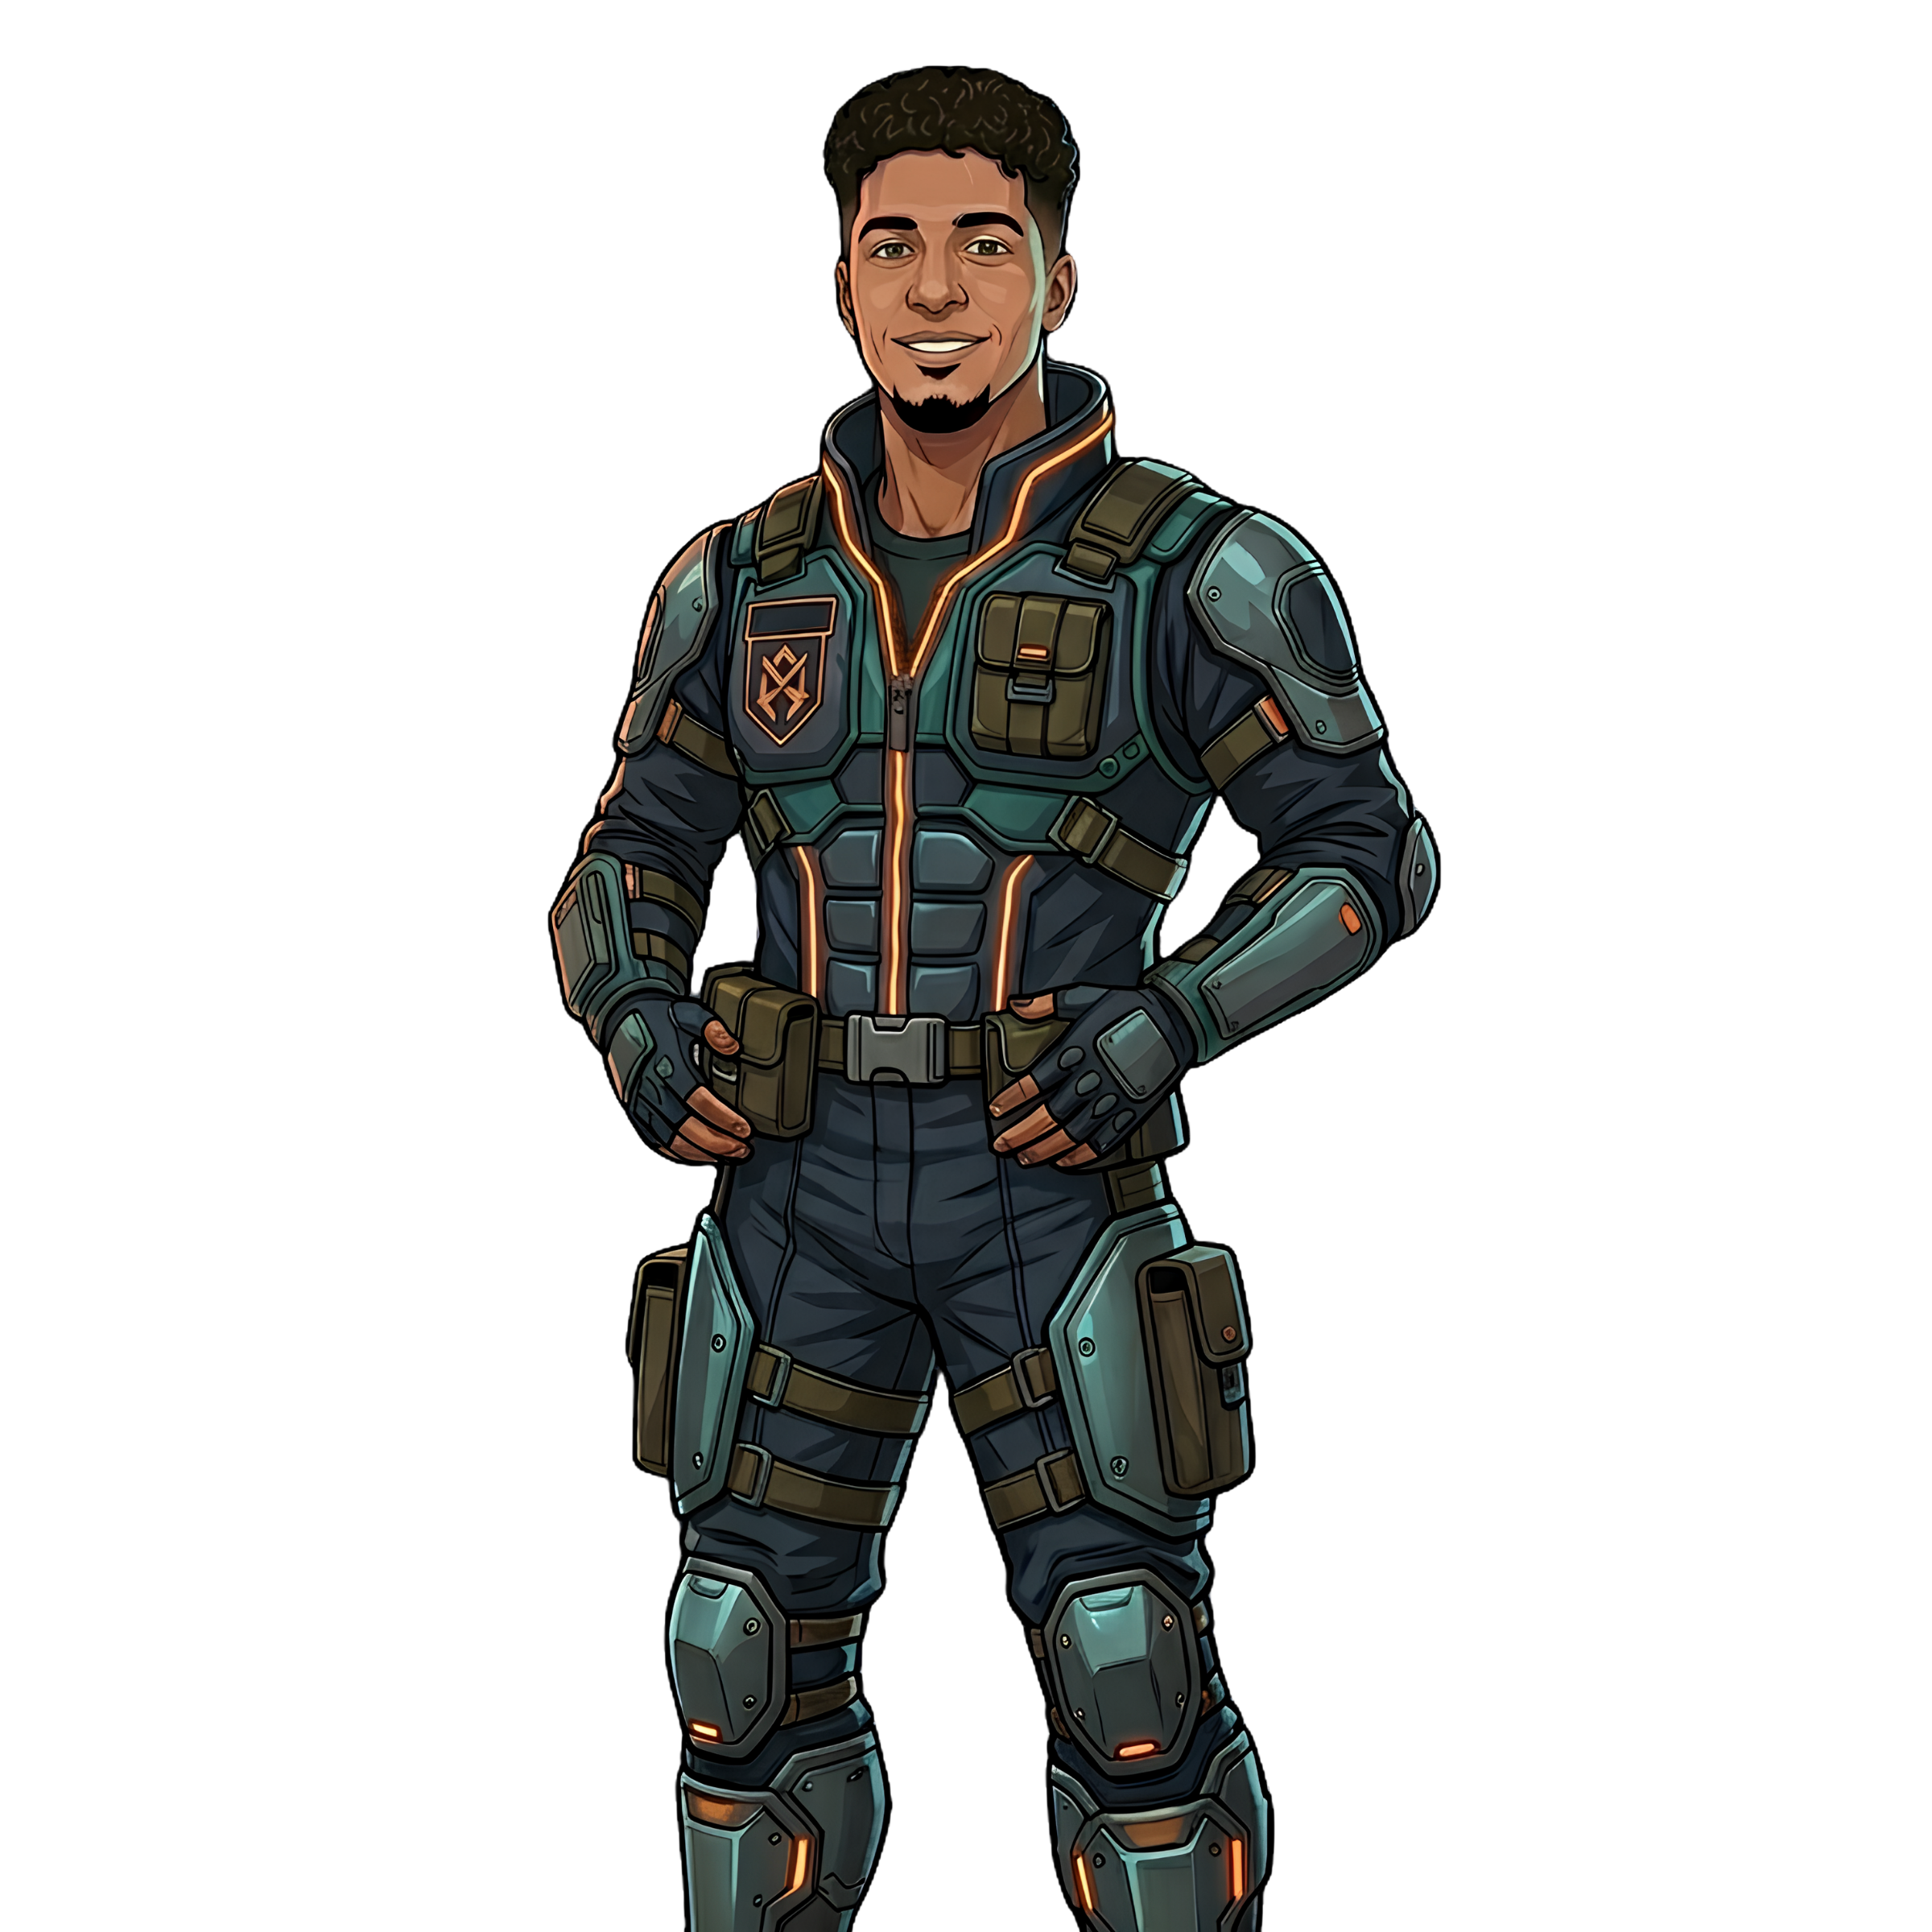
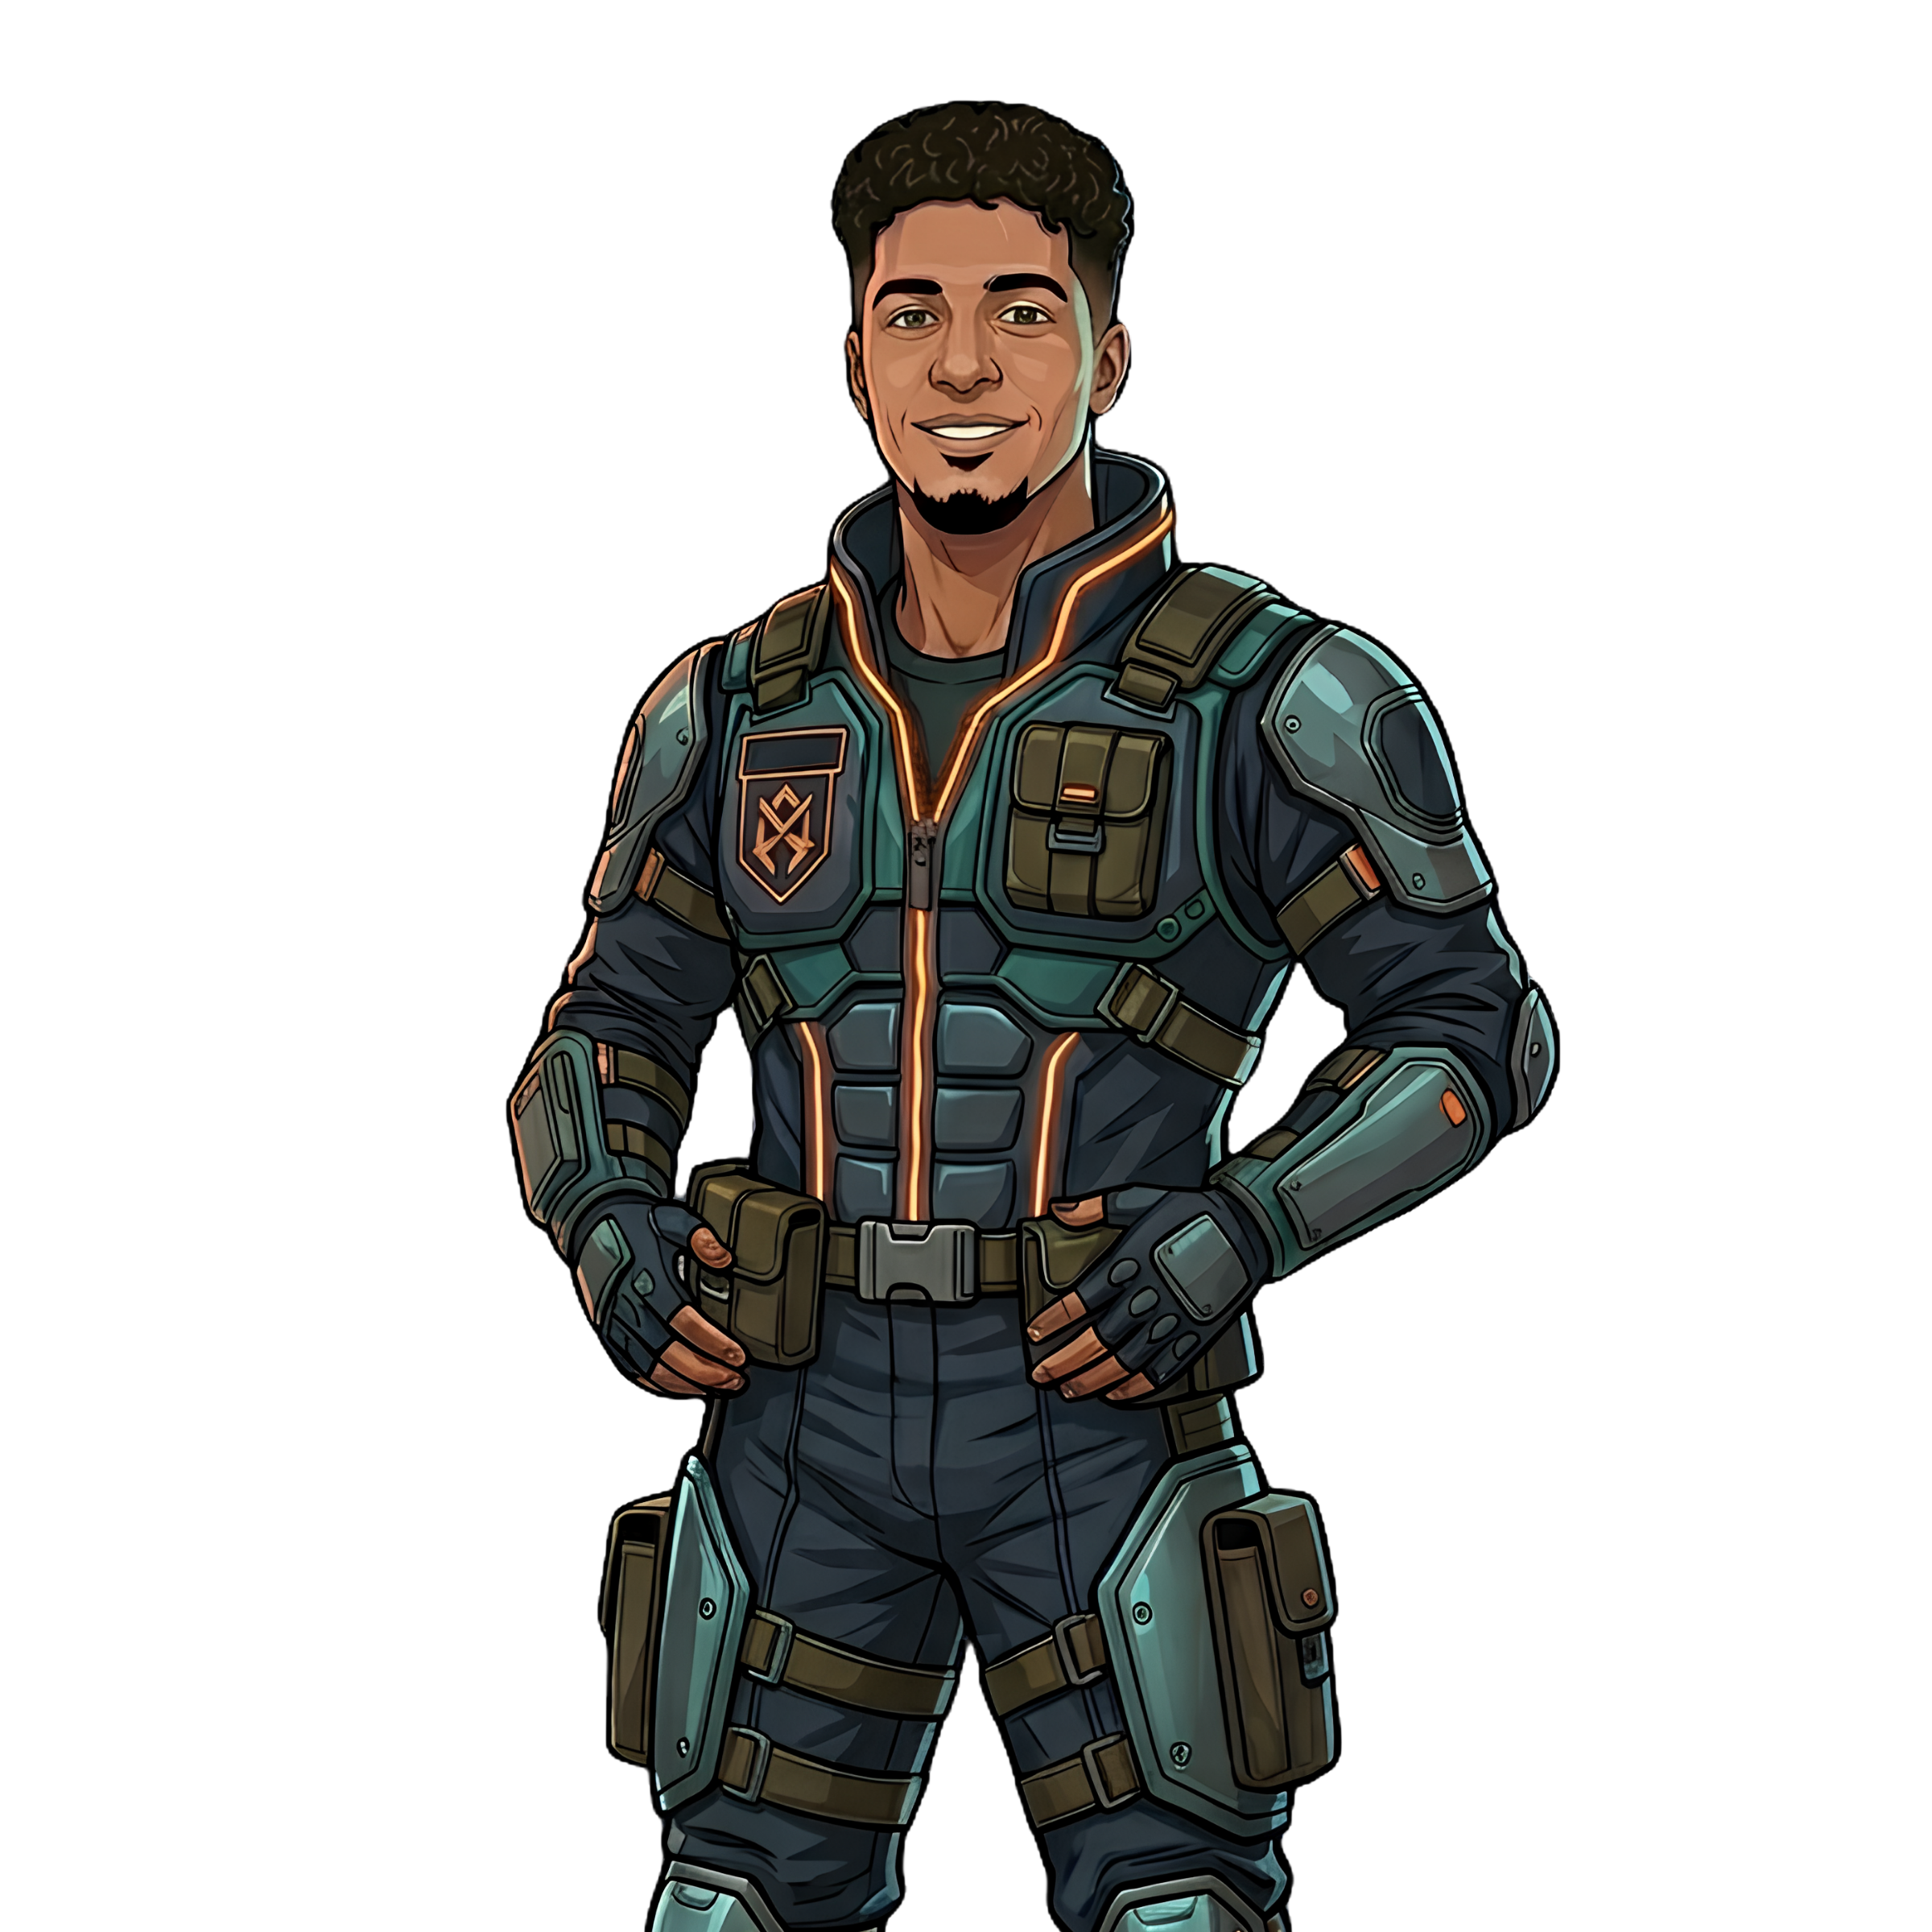
content + amelioration

Changed region(s): [[0.25, 0.0312, 0.8125, 1.0]]

diff --git a/src/about/SubHeadingData.js b/src/about/SubHeadingData.js
@@ -2,62 +2,53 @@ const SubheadingData = {
     1: [{
         title: "About me",
         content : (<>
-        <p>Hi, I'm a software developer with a passion
-             for creating innovative solutions. I have 
-             experience in various programming languages 
-             and frameworks, and I enjoy working on both
-              front-end and back-end development.</p>
+        <p>I'm Yassir DHIRECH, a 4th-year Computer Engineering student
+             at ENSA Fès who doesn't wait for assignments to build. 
+             I lead two student organizations, I shipped a full-stack 
+             app solo during my hospital internship, and I've deployed 
+             platforms that classmates open every day. I work best when 
+             there's a real problem to solve, a deadline to meet, 
+             and no one to hand it off to.</p>
         </>
         ),
     },
     ],
     2: [
         {
-        title: "Bacalaureate",
+        title: "Baccalaureate — 2022",
         content : (<>
-        <p>Hi, I'm a software developer with a passion
-             for creating innovative solutions. I have 
-             experience in various programming languages 
-             and frameworks, and I enjoy working on both
-              front-end and back-end development.</p>
+        <p>Graduated from the 1er Lycée Militaire Royal in Kénitra with a
+            scientific Baccalaureate after six years of semi-military secondary
+            education. That environment taught me discipline, structure, and
+            how to perform under pressure — long before I wrote my first line
+            of code.</p>
         </>
         ),
     },
         
     {
-        title: "Ensafe",
+        title: "ENSA Fès — 2022 to Present",
         content : (<>
-        <p>Hi, I'm a software developer with a passion
-             for creating innovative solutions. I have 
-             experience in various programming languages 
-             and frameworks, and I enjoy working on both
-              front-end and back-end development.</p>
+        <p> Enrolled in the Computer Engineering program at ENSA Fès in 2022,
+            completing a two-year Preparatory Cycle before entering the
+            Engineering Cycle in 2024. Alongside coursework in algorithms,
+            databases, systems, and software engineering, I've led two student
+            organizations and shipped real production platforms used by 1,800+
+            students.</p>
         </>
         ),
     },
     ],
     3: [
         {
-        title: "Stage 1" , 
+        title: "Internship — CHU Fès" , 
         content : (
         <>
-        <p>Hi, I'm a software developer with a passion
-             for creating innovative solutions. I have 
-             experience in various programming languages 
-             and frameworks, and I enjoy working on both
-              front-end and back-end development.</p>
-        </>
-        ),
-    },
-        
-    {
-        title: "Ensafe",
-        content : (<>
-        <p>Hi, I'm a software developer with a passion
-             for creating innovative solutions. I have 
-             experience in various programming languages 
-             and frameworks, and I enjoy working on both
-              front-end and back-end development.</p>
+        <p>Completed a full-stack internship at the Centre Hospitalier
+           Universitaire Hassan II in Fès. I identified the problem myself,
+           designed the solution, and delivered a working application before
+           the end of the internship — solo. Handled everything: database
+            design, backend logic, frontend interface, and deployment.</p>
         </>
         ),
     },

diff --git a/src/projects/projectsData.js b/src/projects/projectsData.js
@@ -4,46 +4,54 @@ import projectThree from "../assets/project-3.png"
 
 const projects = {
     1:{
-        title:"ADEI Official Website",
+        title:"ADEI ENSA Fès — Student Platform",
         image: projectOne,
         description : (
             <>
             <p>
-                decription11111111111111111111111111111111111
+                Centralised platform for 1,800+ students at ENSA Fès. I came up with
+                the idea, defined the scope, and co-developed it. Academic tracks,
+                student clubs, club president accounts, class rep accounts, and a
+                feedback system — all in one place.
             </p>
             </>
         ),
-        github: "https://github.com",
-        demo: "https://github.com"
+        github: "https://github.com/Yassir-Dhirech",
+        demo: "https://adei-ensaf.ma"
 
     },
     2:{
-        title:"Rotaract ensaf Official Website",
+        title:"Rotaract Club ENSA Fès — Club Platform",
         image: projectTwo,
         description : (
             <>
             <p>
-                decription11111111111111111111111111111111111
+                Built solo from wireframes to deployment. Not just a showcase —
+                    a platform the team uses daily. Event management, project gallery,
+                    team directory, donation info, bilingual FR/EN, and an admin
+                    interface to update content without touching code.
             </p>
             </>
         ),
-        github: "https://github.com",
-        demo: "https://github.com"
+        github: "https://github.com/Yassir-Dhirech",
+        demo: "https://rotaract-club.adei-ensaf.ma"
 
     },
     3:{
-        title:"getions Official Website",
+        title:"Job Search Platform — ENSA Fès",
         image: projectThree,
         description : (
             <>
             <p>
-                decription11111111111111111111111111111111111
+                Web platform centralising job offers and CV management for
+                candidates and recruiters. Built with .NET MVC — CV uploads,
+                job posting, tracking, and role-based authentication.
+                Collaborative academic project validated by supervising professor.
             </p>
             </>
         ),
-        github: "https://github.com",
-        demo: "https://github.com"
-
+        github: "https://github.com/Yassir-Dhirech",
+        demo: null
     }
 }
 

diff --git a/src/skills/skillsData.js b/src/skills/skillsData.js
@@ -10,26 +10,20 @@ const skills = {
         },
         {
         title:"JavaScript",
-        level: 4
+        level: 5
         },
-        {
-        title:"SASS",
-        level: 1
-        },
-        {
-        title:"TypeScript",
+        {title:"TypeScript",
         level: 1
         },
         {
         title:"React",
         level: 4
         },
-        {
-        title:"TailwindCSS",
-        level: 1
+        {title:"Framer Motion",
+        level: 2
         },
         {
-        title:"figma",
+        title:"TailwindCSS",
         level: 1
         }
     ],
@@ -51,12 +45,20 @@ const skills = {
         level: 4
         },
         {
-        title:"PostgreSQL",
-        level: 1
+        title:"MongoDB",
+        level: 3
         },
         {
-        title:"Express.js",
-        level: 1
+        title:".NET",
+        level: 4
+        },
+        {
+        title:"Java",
+        level: 3
+        },
+        {
+        title:"JWT",
+        level: 2
         }
     ]
 }

diff --git a/src/styles/AboutMenu.css b/src/styles/AboutMenu.css
@@ -4,8 +4,9 @@
     display: flex;
     flex-direction: column;
     top : 60%;
-    transform: translateY(-60%);
-    left : 10vw;
+    transform: translateY(-50%);
+    left : 15vw;
+    
 }
 
 .item{
@@ -19,7 +20,6 @@
 .title{
     font-size: 1rem;
     padding-right: 2.5rem;
-
 }
 
 .item.active .title{
@@ -27,13 +27,13 @@
 }
 
 .sub-container{
-    width: 18.5rem;
+    width: 25rem;
     position: fixed;
     display:flex;
     flex-direction: column;
     top : 32%;
     right : 10vw;
-    cursor: pointer;
+    cursor: default;
 }
 
 .active-subheading{
@@ -61,6 +61,7 @@
 .sub-container-2.active-subheading h3,
 .sub-container-3.active-subheading h3{
     border-radius: var(--radius-left);
+    
 }
 
 .sub-container-1.active-subheading h3{
@@ -111,8 +112,13 @@
 }
 
 @media (max-width : 1100px) {
+    .menu{
+        left: 10vh;
+    }
+
     .sub-container{
         right: 1rem;
+        width :18rem;
     } 
     .item.active .title {
         font-size: 1rem;
@@ -128,12 +134,12 @@
         top : 50%;
         left: 50%;
         transform: translateX(-50%);
-
     }
     
     .title{
         font-size: 0.8rem;
         padding-right: 2.5rem;
+        border-radius: var(--radius-right);
     }
 
     .active-subheading .p-container{
@@ -141,7 +147,7 @@
 
     }
 
-    .icon-title-container .icon{
+    .icon-title-container {
         display:none;
 
     }

diff --git a/src/styles/avatar.css b/src/styles/avatar.css
@@ -8,13 +8,13 @@
 .avatar.about{
     height : 89vh;
     bottom : -8vh;
-    left : 50%;
+    left : 48%;
     transform : translateX(-50%);
 }
 
 .avatar.skills{
-    height : 190vh;
-    bottom : -110vh;
+    height : 160vh;
+    bottom : -70vh;
     left : -1.5rem;
     transform : translateX(0%) scaleX(-1);
 }

diff --git a/src/styles/projectMenu.css b/src/styles/projectMenu.css
@@ -2,7 +2,7 @@
     width: 45rem;
     position: fixed;
     display: flex;
-    top: 25%;
+    top: 20%;
     left:50%;
     transform: translateX(-50%);
 }
@@ -66,8 +66,10 @@
 .project-sub-container img{
     width: 100%;
     object-fit: cover;
-    border-radius: 0.5rem 3rem 0.5rem 0.5rem;
+    border-radius: 0.5rem;
     opacity: 0.9;
+    border: 2px solid ;
+    margin-top: 10px ;
 }
 .project-sub-container p{
     font-size: 0.875rem;